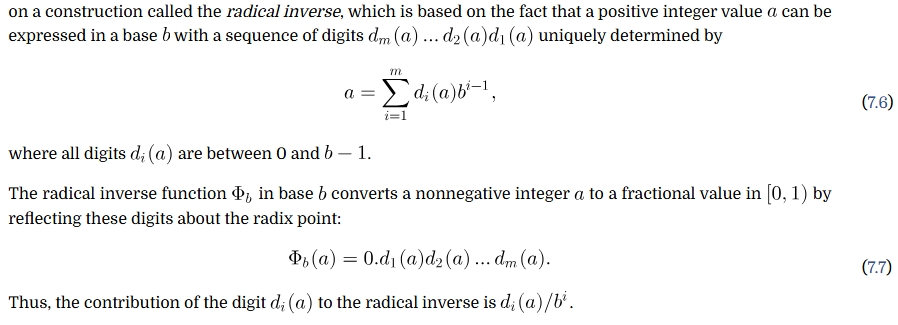
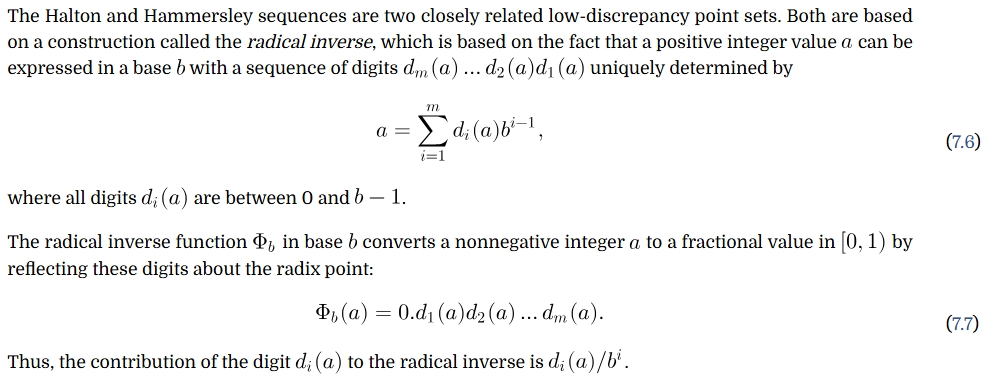
update

diff --git a/scripts/enhanced-image.js b/scripts/enhanced-image.js
@@ -1,7 +1,7 @@
 'use strict';
 
-console.log('=== Enhanced Image Plugin Loading ===');
-console.log('Registering enhanced_img tag...');
+// console.log('=== Enhanced Image Plugin Loading ===');
+// console.log('Registering enhanced_img tag...');
 
 // 预定义的样式配置
 const imageConfig = {
@@ -34,7 +34,7 @@ const imageConfig = {
 
 // 注册支持 {% image %}...{% endimage %} 语法的标签
 hexo.extend.tag.register('image', function(args, content) {
-  console.log('Image tag called with args:', args, 'content:', content);
+  // console.log('Image tag called with args:', args, 'content:', content);
   
   const [src, size = 'medium', style = 'bordered', align = 'center', ...altParts] = args;
   
@@ -175,12 +175,12 @@ function openImageModal(img) {
 </script>
 `);
 
-console.log('=== Enhanced Image Plugin Loaded ===');
-console.log('All tags registered successfully!');
+// console.log('=== Enhanced Image Plugin Loaded ===');
+// console.log('All tags registered successfully!');
 
 // 注册 enhanced_img 标签
 hexo.extend.tag.register('enhanced_img', function(args) {
-  console.log('Enhanced_img tag called with args:', args);
+  // console.log('Enhanced_img tag called with args:', args);
   
   const src = args[0];
   const size = args[1] || 'medium';
@@ -188,7 +188,7 @@ hexo.extend.tag.register('enhanced_img', function(args) {
   const align = args[3] || 'center';
   const altParts = args.slice(4);
   
-  console.log('Parsed args:', { src, size, style, align, altParts });
+  // console.log('Parsed args:', { src, size, style, align, altParts });
   
   if (!src) {
     return '<p style="color: red;">Error: Image src is required</p>';
@@ -201,18 +201,18 @@ hexo.extend.tag.register('enhanced_img', function(args) {
   // 检查是否有标题（如果参数数量大于4，最后一个参数视为标题）
   const hasCaption = altParts.length > 0;
   
-  console.log('Caption check:', { altParts, hasCaption });
+  // console.log('Caption check:', { altParts, hasCaption });
   
   let alt, caption;
   if (hasCaption) {
     // 有标题的情况，最后一个参数是标题，其他是alt
     caption = altParts[altParts.length - 1];
     alt = altParts.slice(0, -1).join(' ') || caption;
-    console.log('Has caption:', { caption, alt });
+    // console.log('Has caption:', { caption, alt });
   } else {
     // 无标题的情况，所有参数都是alt
     alt = altParts.join(' ') || '';
-    console.log('No caption:', { alt });
+    // console.log('No caption:', { alt });
   }
   
   const baseImageStyle = `max-width: 100%; height: auto; ${imageWidth !== '100%' ? `width: ${imageWidth};` : ''} ${imageStyle}`;
@@ -229,6 +229,6 @@ hexo.extend.tag.register('enhanced_img', function(args) {
     result = '<div style="' + containerStyle + '"><img src="' + src + '" alt="' + alt + '" style="' + baseImageStyle + ' cursor: zoom-in;" loading="lazy" onclick="openImageModal(this)"></div>';
   }
   
-  console.log('Enhanced_img generated HTML:', result);
+  // console.log('Enhanced_img generated HTML:', result);
   return result;
 });

diff --git a/source/_posts/2025-06-19-PBR-Reading-Notes.md b/source/_posts/2025-06-19-PBR-Reading-Notes.md
@@ -110,3 +110,17 @@ $$\operatorname{III}_T(x) f(x)= T\sum_{i=-\infty}^{\infty}f(iT)\delta(x-iT)$$
 **radical inverse**
 
 {% enhanced_img /images/PBR-Reading-Notes/7.4.radical_inverse.jpeg 90% card center "Radical Inverse" %}
+
+**van der Corput sequence**
+
+1D sequence given by the radical inverse function in base 2: $x_a = \Phi_2(a)$
+
+**n-dimensional Halton sequence**
+每维序列生成radical_inverse使用的base是前n个素数
+$$x_a = (\Phi_2(a), \Phi_3(a), \Phi_5(a), \dots, \Phi_{p_n}(a))$$
+
+**Hammersley**
+当N固定时，更低的discrepancy。
+   $$x_a = \left(\frac{a}{N}, \Phi_{b_1}(a), \Phi_{b_2}(a), \dots, \Phi_{b_n}(a)\right)$$
+
+参考[Sampling with Hammersley and Halton Points](https://ttwong12.github.io/papers/udpoint/udpoint.pdf)
